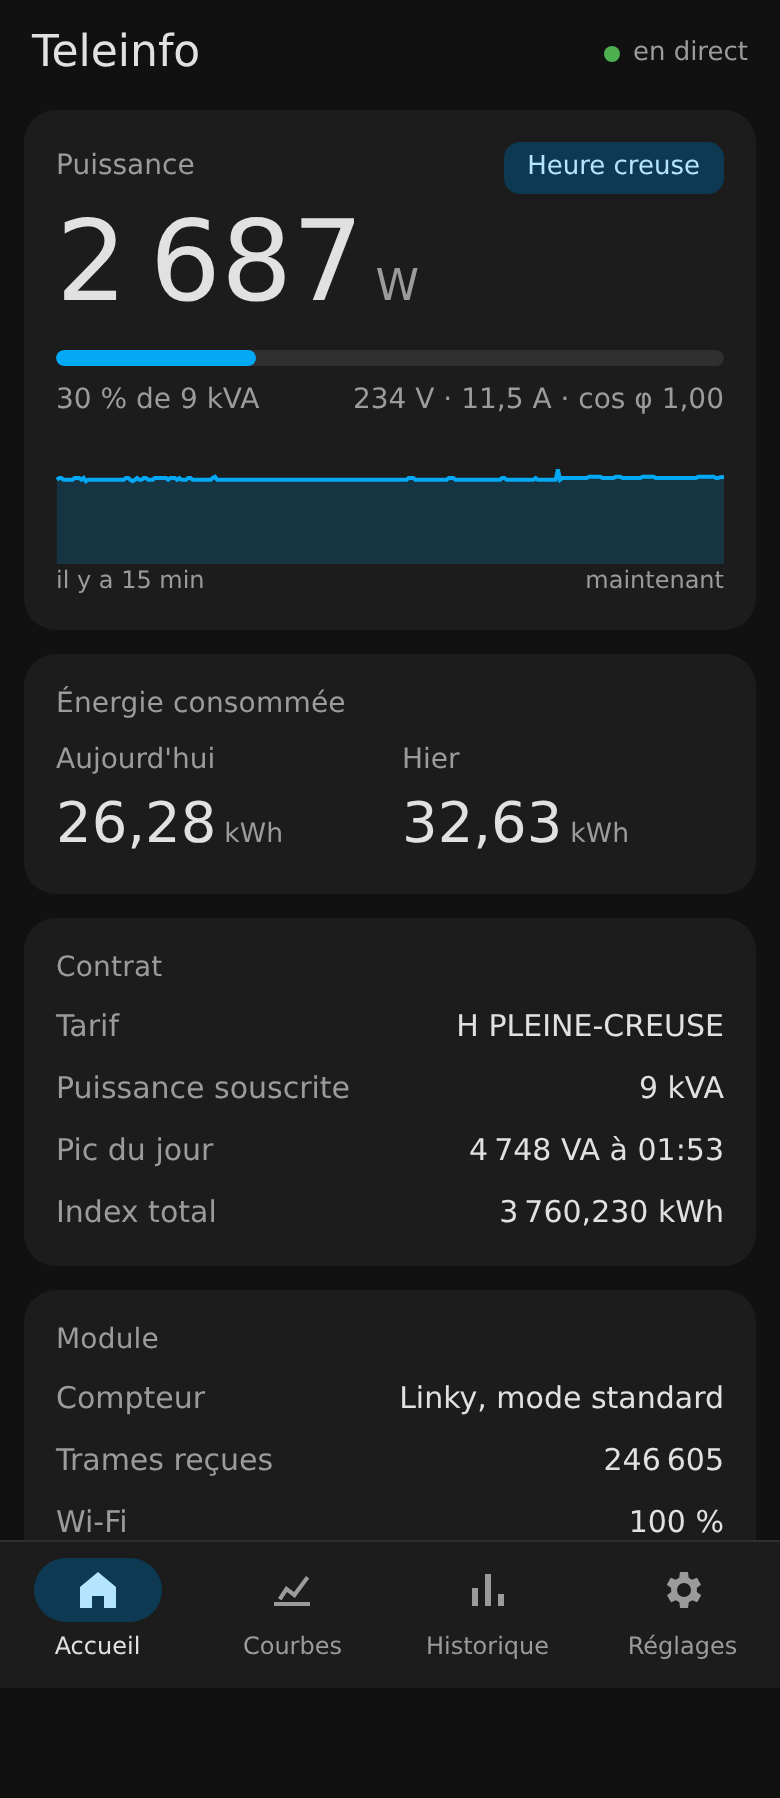
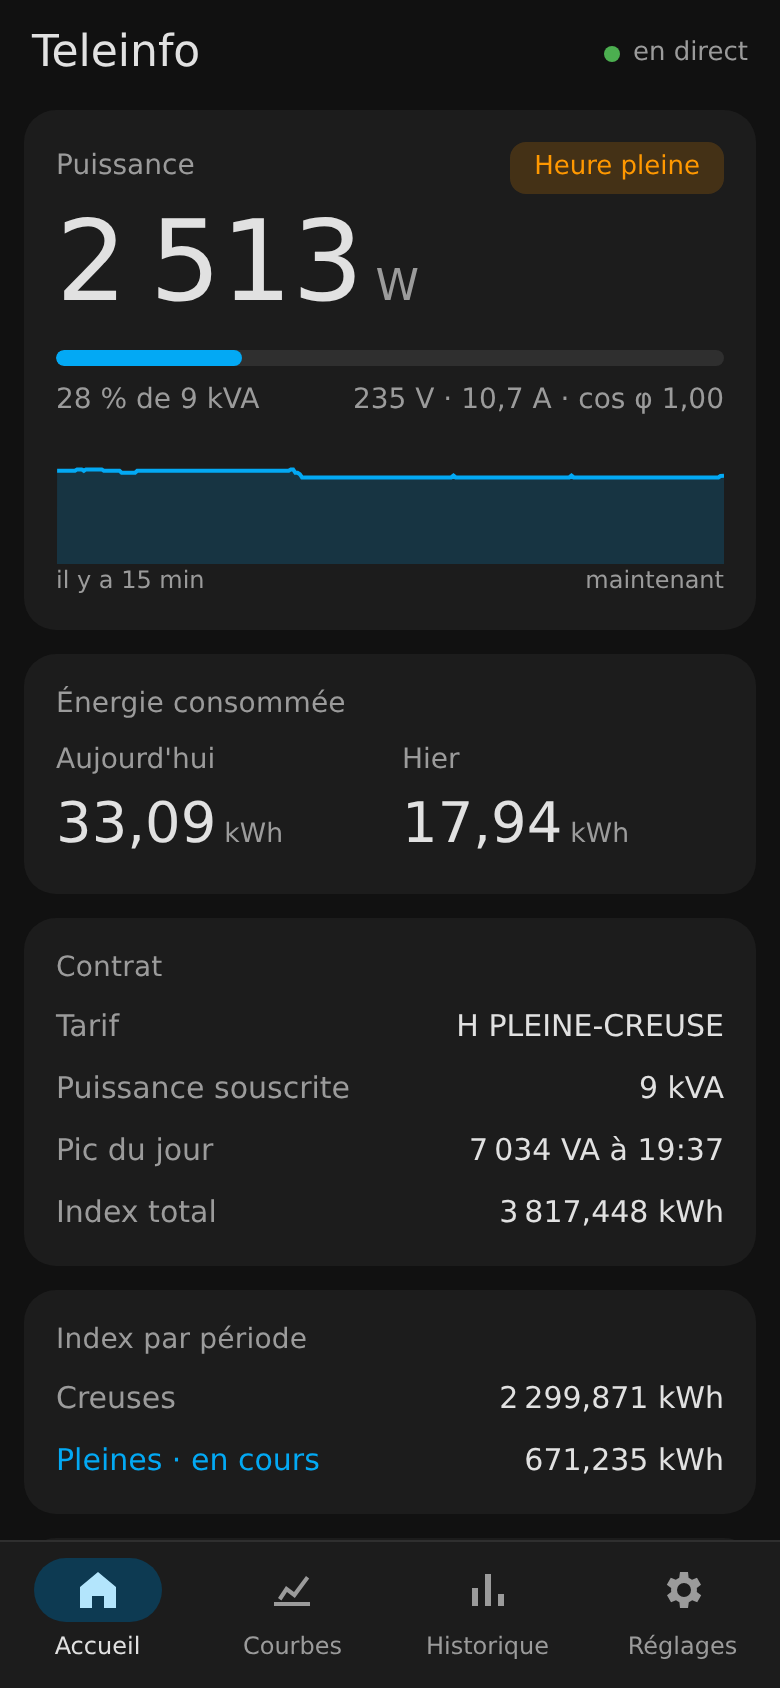
Interface mobile : captures et README à jour

diff --git a/teleinfo/web/README.md b/teleinfo/web/README.md
@@ -2,14 +2,20 @@
 
 Nouvelle interface web pensée pour le téléphone, **à côté** de l'interface actuelle : les pages existantes ne sont pas modifiées.
 
-| Accueil | Courbes 24 h | Réglages |
+| Accueil | Courbes 24 h | Historique |
 |---|---|---|
-| ![](captures/prototype/accueil-sombre.png) | ![](captures/prototype/courbes-24h.png) | ![](captures/prototype/reglages.png) |
+| ![](captures/prototype/accueil-sombre.png) | ![](captures/prototype/courbes-24h.png) | ![](captures/prototype/historique-jour.png) |
+
+| Historique, tous contrats | Messages TIC | Réglage du compteur |
+|---|---|---|
+| ![](captures/prototype/historique-annee.png) | ![](captures/prototype/messages.png) | ![](captures/prototype/reglage-compteur.png) |
 
 ## Principe
 
 - HTML, CSS et JavaScript sans dépendance ni étape de compilation (`index.html`, `app.css`, `app.js`).
-- Ne lit que des routes déjà présentes dans le firmware : `/cm?cmnd=Status 10`, `/tic-msg.upd`, `/info.json`, `/graph` + `/graph.upd`.
+- Ne lit que des routes déjà présentes dans le firmware : `/cm?cmnd=Status 10`, `/tic-msg.upd`, `/info.json`, `/graph` + `/graph.upd`, les CSV d'historique (`/ufsd?download=`) et les pages de réglage Teleinfo.
+- Les réglages Teleinfo (`/tic-cfg`, `/relay`, `/solar-cfg`, `/awtrix`, `/option`) sont relus depuis les pages d'origine et enregistrés avec les mêmes paramètres : aucun code C++ à modifier.
+- L'historique peut afficher tous les contrats de l'année ensemble, ce qui garde la consommation visible après un changement de contrat.
 - Material Design 3, thème clair ou sombre selon le téléphone.
 - Les réglages et les écrans Tasmota restent ceux du firmware, regroupés dans un onglet « Réglages ».
 
@@ -19,7 +25,7 @@ Nouvelle interface web pensée pour le téléphone, **à côté** de l'interface
 python3 teleinfo/web/proto/serveur.py --module <IP du module>
 ```
 
-puis ouvrir `http://<IP de la machine>:8099/` sur le téléphone. Le serveur relaie seulement des lectures (seules les commandes `Status` passent par `/cm`).
+puis ouvrir `http://<IP de la machine>:8099/` sur le téléphone. Le serveur relaie seulement des lectures (seules les commandes `Status` passent par `/cm`, et l'enregistrement des réglages est refusé).
 
 ## Suite
 
